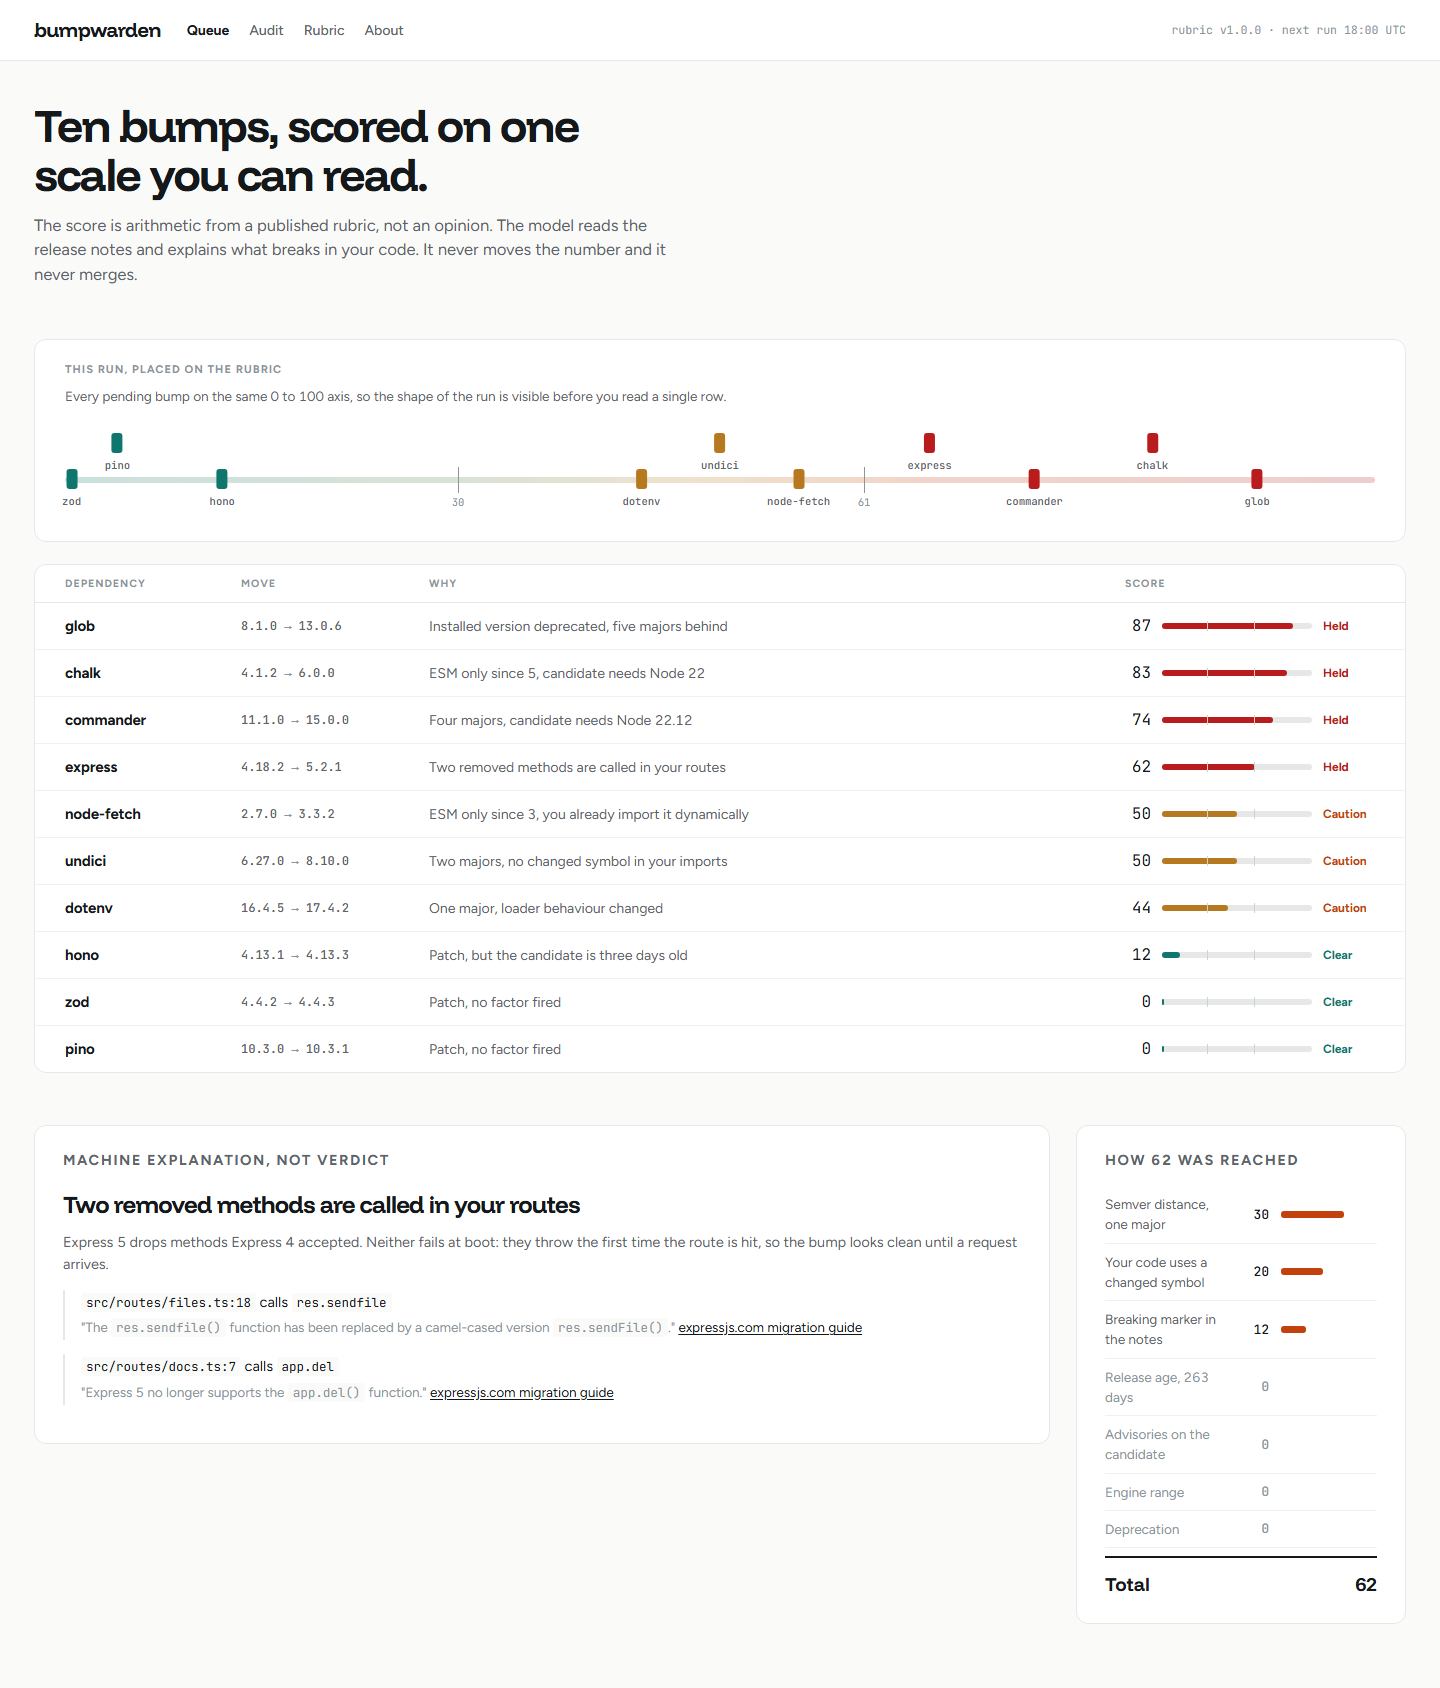
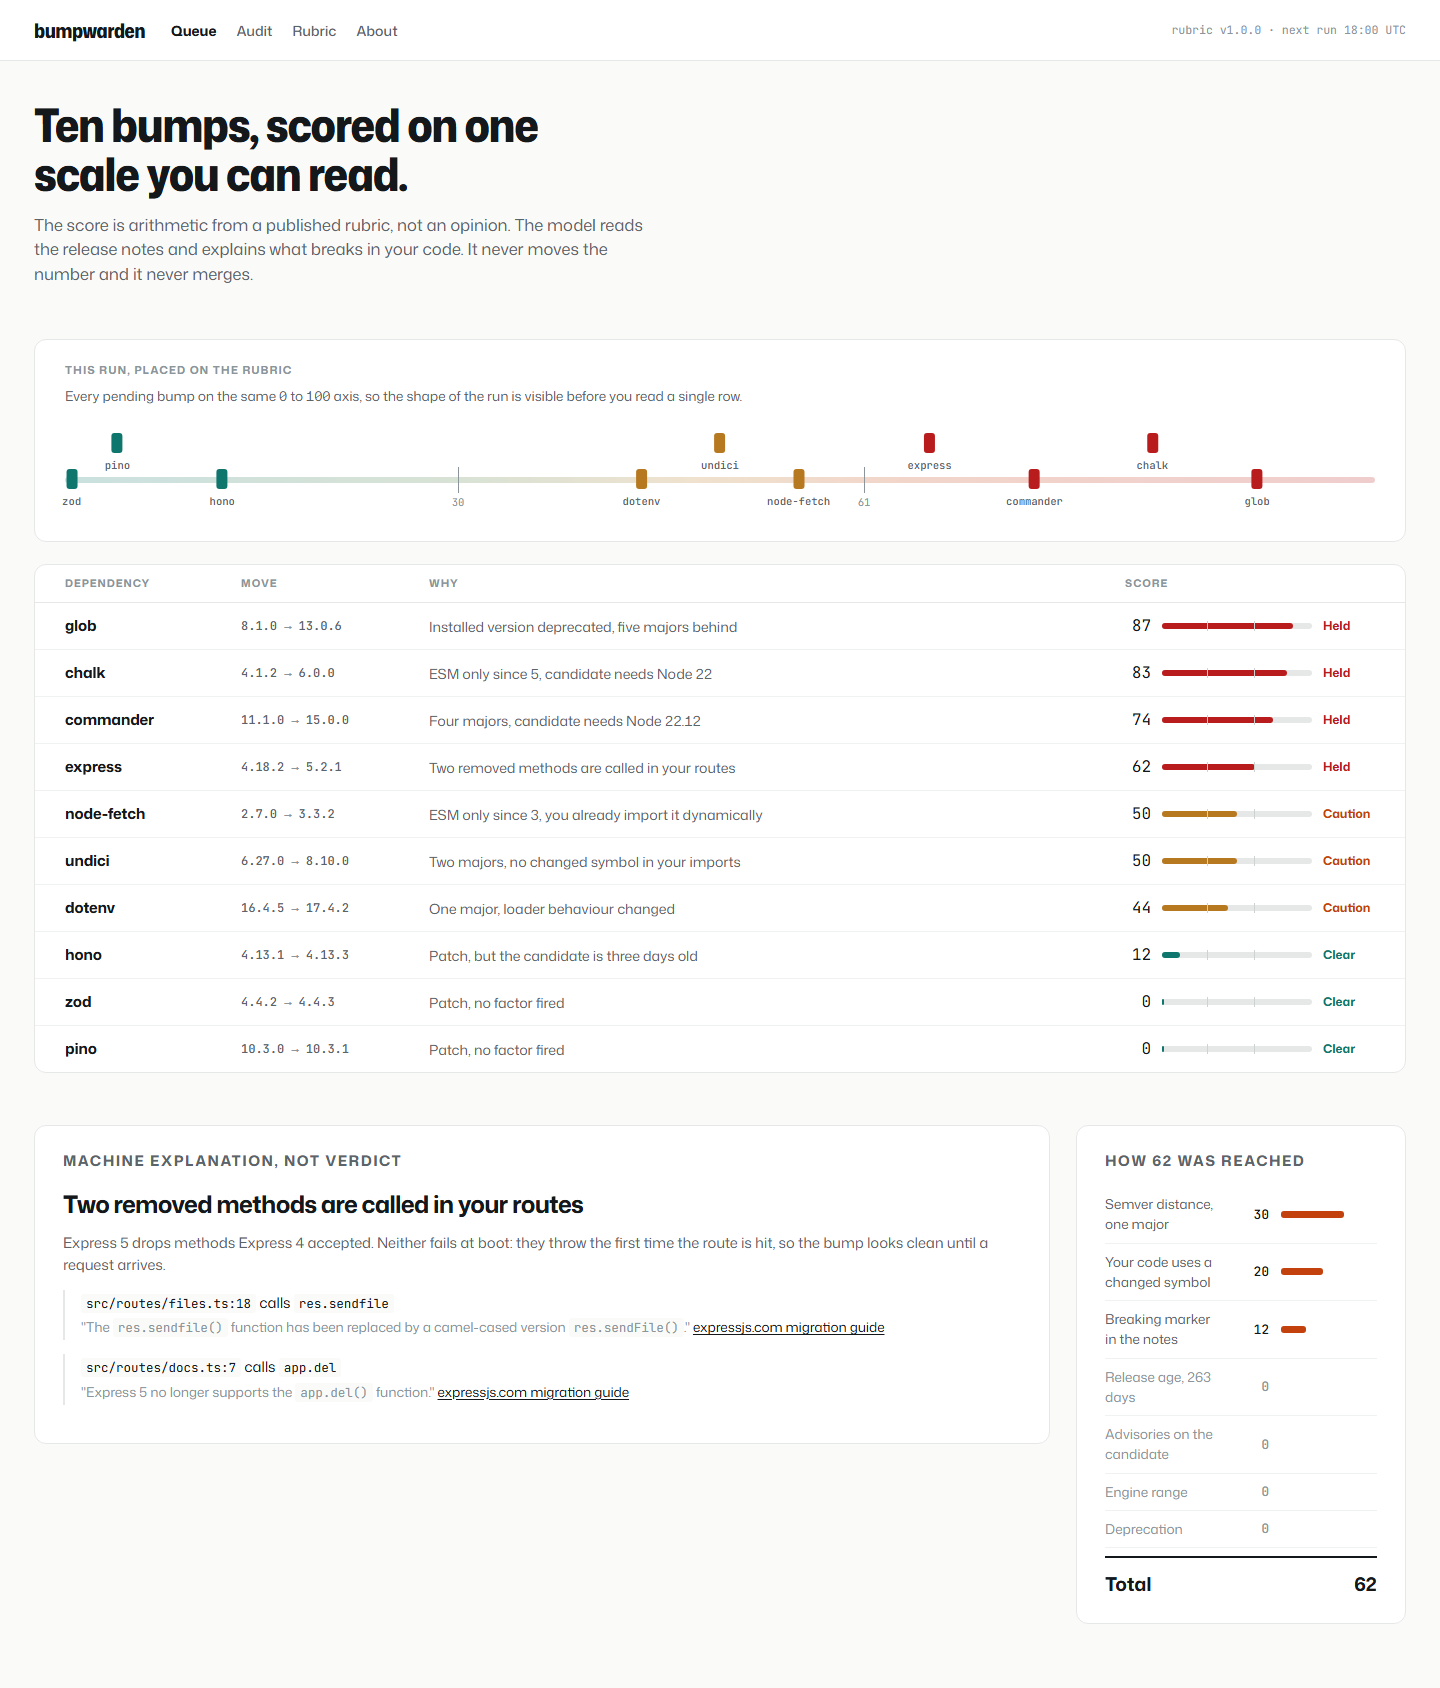
fix(design): drop the display face for GitHub's Mona Sans
The headline face was picked on taste and did not hold up. So the question
got measured instead: of thirteen products this audience opens every week,
not one uses a characterful display face on its working surface. Vercel and
Snyk ship Geist, GitHub ships Mona Sans, Raycast and Railway ship Inter, Neon
ships IBM Plex, Depot ships Red Hat. Personality lives in weight, width,
tracking and colour.

Mona Sans is GitHub's own open source face, and this product's output is GitHub
issues and pull requests, so it now reads as native to the place it works. Its
width axis covers both a tight headline and a comfortable table row, so the
whole interface is one family plus JetBrains Mono for data.

diff --git a/design/mockups/queue.html b/design/mockups/queue.html
@@ -7,7 +7,7 @@
     <link rel="preconnect" href="https://fonts.googleapis.com" />
     <link rel="preconnect" href="https://fonts.gstatic.com" crossorigin />
     <link
-      href="https://fonts.googleapis.com/css2?family=Funnel+Display:wght@300..800&family=Figtree:ital,wght@0,300..900&family=JetBrains+Mono:wght@100..800&display=swap"
+      href="https://fonts.googleapis.com/css2?family=Mona+Sans:ital,wdth,wght@0,75..125,200..900&family=JetBrains+Mono:wght@100..800&display=swap"
       rel="stylesheet"
     />
     <style>
@@ -29,8 +29,10 @@
         --r3: #c2410c;
         --r4: #b91c1c;
 
-        --display: 'Funnel Display', sans-serif;
-        --sans: 'Figtree', sans-serif;
+        /* One family across the whole range, which is what every product in the evidence table
+           does. Headlines take the tight width and the heavy weight, rows take normal width. */
+        --display: 'Mona Sans', sans-serif;
+        --sans: 'Mona Sans', sans-serif;
         --mono: 'JetBrains Mono', monospace;
       }
       * {
@@ -57,9 +59,10 @@
       }
       .logo {
         font-family: var(--display);
-        font-weight: 700;
+        font-weight: 800;
+        font-stretch: 88%;
         font-size: 20px;
-        letter-spacing: -0.025em;
+        letter-spacing: -0.02em;
       }
       .bar nav {
         display: flex;
@@ -87,9 +90,10 @@
       }
       h1 {
         font-family: var(--display);
-        font-weight: 700;
+        font-weight: 800;
+        font-stretch: 92%;
         font-size: clamp(29px, 4vw, 46px);
-        letter-spacing: -0.035em;
+        letter-spacing: -0.028em;
         line-height: 1.06;
         margin: 0;
         max-width: 21ch;

diff --git a/design/ART-DIRECTION.md b/design/ART-DIRECTION.md
@@ -72,19 +72,24 @@ only as a bar or a pin must still reach 3 to 1.
 
 ## 3. Type
 
-Three families, all free, self hosted at build time. Never Inter, Roboto, a system stack, or Space
-Grotesk. None of these were used in the retired direction.
+Two families, both free and self hosted at build time, chosen from a measured shortlist of the
+faces this audience's tools ship, not from taste. Never Inter, Roboto, a system stack, or Space
+Grotesk.
 
-| Role                                                  | Face                                      | Why                                                                                                                                  |
-| ----------------------------------------------------- | ----------------------------------------- | ------------------------------------------------------------------------------------------------------------------------------------ |
-| Display: headlines, the wordmark, card titles, totals | **Funnel Display** (OFL), `wght 300..800` | Carries the whole brand layer on its own. Distinctive without being costume, and tight enough at large sizes to hold a real headline |
-| Interface: body, rows, labels                         | **Figtree** (OFL), `wght 300..900`        | Quiet, wide aperture, reads cleanly at 13 to 15px in a dense table                                                                   |
-| Data: versions, scores, timestamps, rule ids          | **JetBrains Mono** (OFL), `wght 100..800` | Version strings and scores must align in a column, and it is the face this audience already reads all day                            |
+| Role                                                           | Face                                                         | Why                                                                                                                                                                                                                                                                                                              |
+| -------------------------------------------------------------- | ------------------------------------------------------------ | ---------------------------------------------------------------------------------------------------------------------------------------------------------------------------------------------------------------------------------------------------------------------------------------------------------------- |
+| Everything read as language: wordmark, headlines, rows, labels | **Mona Sans** (OFL, GitHub), `wght 200..900`, `wdth 75..125` | GitHub's own open source typeface. This product's output IS GitHub issues and pull requests and a user moves between the two all day, so it reads as native to the place it works. The width axis lets one family cover a tight headline and a comfortable table row, which is what the measured products all do |
+| Data: versions, scores, timestamps, rule ids                   | **JetBrains Mono** (OFL), `wght 100..800`                    | Version strings and scores must hold their column, and this audience already reads it in their editor. Measured in use at Railway and Raycast                                                                                                                                                                    |
+
+The first attempt used a display face, Funnel Display, for headlines. It did not hold up, and the
+evidence agrees: of thirteen products measured in this category, not one uses a characterful display
+face on the working surface. Personality is bought with weight, width, tracking and colour. If the
+typeface is what makes a design interesting, the design is not interesting enough yet.
 
 Scale, in px because this is an interface and not a document: 10.5 label, 12 mono meta, 13.5 dense
-body, 15 body, 16.5 lede, 19 total, 24 card title, clamp(29, 4vw, 46) headline. Tracking tightens
-as size grows: -0.035em on the headline, -0.025em on the wordmark, 0 on body, +0.1em on uppercase
-labels. Uppercase is for labels only and never for body text.
+body, 15 body, 16.5 lede, 19 total, 24 card title, clamp(29, 4vw, 46) headline. The headline takes
+weight 800 at width 92 percent with -0.028em tracking, the wordmark weight 800 at width 88 percent.
+Body sits at normal width. Uppercase is for labels only, at +0.1em, never for body text.
 
 ## 4. Structure
 
